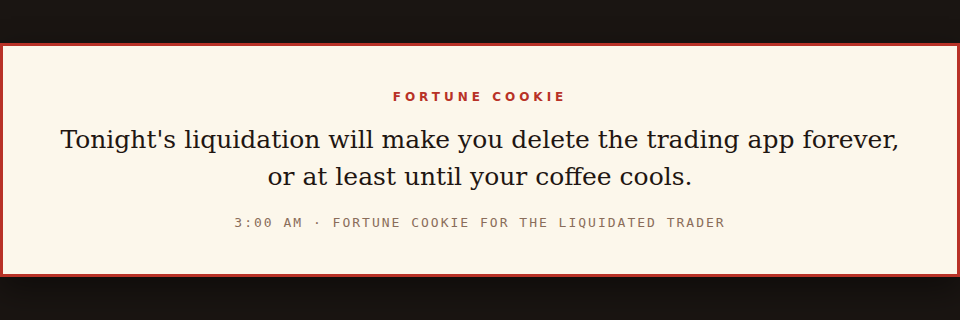
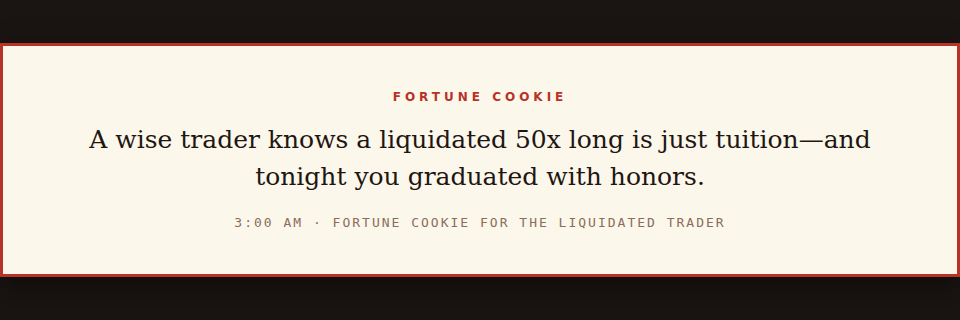
Switch to graduated-with-honors tuition proverb

Changed region(s): [[0.0625, 0.4062, 0.9375, 0.4688], [0.25, 0.5, 0.75, 0.5938]]

diff --git a/main.ts b/main.ts
@@ -1,7 +1,7 @@
 import { mkdirSync, writeFileSync } from "node:fs";
 
 const FORTUNE =
-  "Tonight's liquidation will make you delete the trading app forever, or at least until your coffee cools.";
+  "A wise trader knows a liquidated 50x long is just tuition—and tonight you graduated with honors.";
 
 mkdirSync("/output", { recursive: true });
 writeFileSync("/output/entry.txt", `${FORTUNE}\n`, "utf8");
